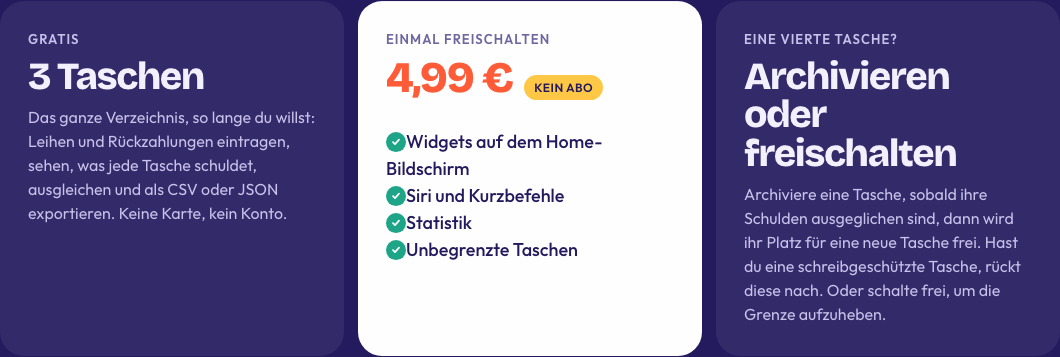
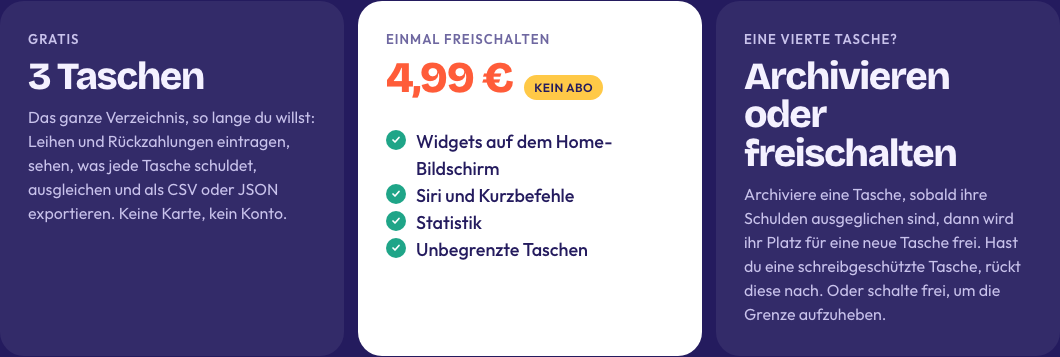
fix(pricing): space the pricing ticks from their labels with a flex row [repocket-site-l60.15]
Bead: repocket-site-l60.15

Changed region(s): [[0.3425, 0.5238, 0.5604, 0.6471], [0.3425, 0.3697, 0.5915, 0.493], [0.3736, 0.6779, 0.5604, 0.7395]]

diff --git a/index.html b/index.html
@@ -63,7 +63,7 @@ section{padding:clamp(60px,9vw,130px) 0}.sec-h{max-width:720px}.sec-h .lead{marg
 .dark{background:var(--ink);color:#F4F1FF}.dark .lead,.dark .step p{color:#C9C3EC}.dark .step{background:rgba(255,255,255,.07)}.dark .step .ic{background:rgba(255,255,255,.1)}.dark a{color:#FF9A80}.dark a:hover{color:#fff}
 .os{display:grid;grid-template-columns:minmax(0,1fr) minmax(0,1fr);gap:40px;align-items:center;margin-top:50px}.siri{padding:22px 26px;border-radius:24px;background:rgba(255,255,255,.07);font:700 clamp(22px,2.4vw,30px) var(--display);letter-spacing:-.02em;line-height:1.15;display:flex;gap:16px;align-items:flex-start}.siri i{flex:none;width:44px;height:44px;border-radius:50%;background:linear-gradient(135deg,#ff5c39,#c86dd7,#5b8def);margin-top:2px}.siri small{display:block;font:400 15px var(--text);color:#C9C3EC;margin-top:8px}
 .banks{display:flex;flex-wrap:wrap;gap:10px;margin-top:34px}.banks span{padding:12px 18px;border-radius:999px;background:#fff;font:600 16px var(--text);display:flex;gap:8px;align-items:baseline}.banks span small{font-weight:400;color:var(--ink2)}
-.price{display:grid;grid-template-columns:repeat(3,minmax(0,1fr));gap:14px;margin-top:50px}.pc{border-radius:24px;padding:30px 28px;background:#fff;display:flex;flex-direction:column;gap:10px;min-height:250px}.pc .k{font:600 13px var(--text);letter-spacing:.08em;text-transform:uppercase;color:var(--ink2)}.pc b{font:800 clamp(34px,3vw,44px) var(--display);letter-spacing:-.04em;line-height:1}.pc p{color:var(--ink2);font-size:16px}.pc.gold{background:#fff;color:var(--ink)}.pc.gold .k{color:var(--ink2)}.pc.gold b{color:var(--coral);font-size:clamp(40px,3.4vw,56px)}.pc ul{list-style:none;padding:0}.pc.gold li{color:var(--ink);font-weight:500}.pc.gold .tick{width:20px;height:20px;border-radius:50%;background:var(--green);display:inline-flex;align-items:center;justify-content:center;flex:none}.pc.gold .prow{display:flex;align-items:baseline;gap:12px;flex-wrap:wrap}.pc.gold .tag{padding:5px 10px;border-radius:999px;background:var(--gold);color:var(--ink);font:600 12px var(--text);letter-spacing:.04em;text-transform:uppercase}
+.price{display:grid;grid-template-columns:repeat(3,minmax(0,1fr));gap:14px;margin-top:50px}.pc{border-radius:24px;padding:30px 28px;background:#fff;display:flex;flex-direction:column;gap:10px;min-height:250px}.pc .k{font:600 13px var(--text);letter-spacing:.08em;text-transform:uppercase;color:var(--ink2)}.pc b{font:800 clamp(34px,3vw,44px) var(--display);letter-spacing:-.04em;line-height:1}.pc p{color:var(--ink2);font-size:16px}.pc.gold{background:#fff;color:var(--ink)}.pc.gold .k{color:var(--ink2)}.pc.gold b{color:var(--coral);font-size:clamp(40px,3.4vw,56px)}.pc ul{list-style:none;padding:0}.pc.gold li{color:var(--ink);font-weight:500;display:flex;align-items:flex-start;gap:10px}.pc.gold .tick{margin-top:2px;width:20px;height:20px;border-radius:50%;background:var(--green);display:inline-flex;align-items:center;justify-content:center;flex:none}.pc.gold .prow{display:flex;align-items:baseline;gap:12px;flex-wrap:wrap}.pc.gold .tag{padding:5px 10px;border-radius:999px;background:var(--gold);color:var(--ink);font:600 12px var(--text);letter-spacing:.04em;text-transform:uppercase}
 .priv{display:grid;grid-template-columns:repeat(3,minmax(0,1fr));gap:14px;margin-top:40px}.priv div{padding:24px;border-radius:20px;background:#fff}.priv b{display:block;font:700 20px var(--display);letter-spacing:-.02em;margin-bottom:8px}.priv p{font-size:15px;color:var(--ink2)}
 .faq{margin-top:40px;max-width:760px}details{border-top:1px solid rgba(36,27,94,.14);padding:20px 0}details:last-child{border-bottom:1px solid rgba(36,27,94,.14)}summary{cursor:pointer;list-style:none;display:flex;justify-content:space-between;gap:20px;font:700 20px var(--display);letter-spacing:-.02em}summary::-webkit-details-marker{display:none}summary::after{content:"+";font-weight:400;color:var(--coral);flex:none}details[open] summary::after{content:"\2212"}details p{margin-top:12px;color:var(--ink2);font-size:17px;max-width:640px}
 .final{text-align:center;display:flex;flex-direction:column;align-items:center;gap:26px}.final h2{font-size:clamp(40px,6vw,88px);font-weight:800;letter-spacing:-.045em}
